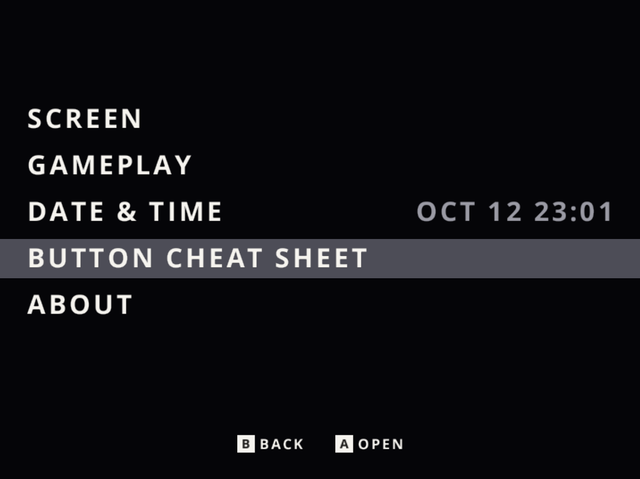
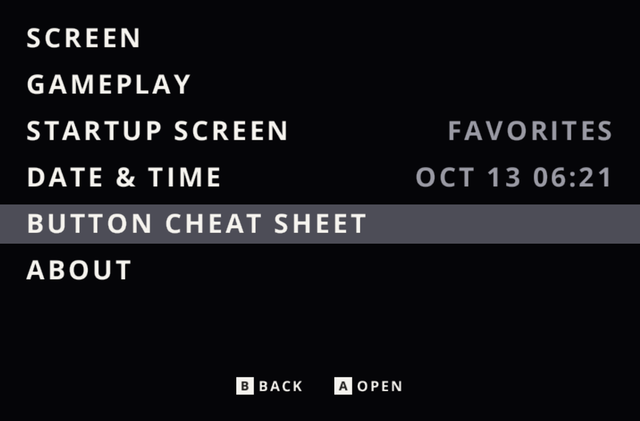
README and CHANGELOG for v1.6.0-mod.2
What's new gains the eight new features below the first three, the
credit line thanks the forks some of them came from, the quick install
gets an optional boot logo step, and the screenshots show the Favorites
and Recents shelves, Startup Screen and the scrolling Gameplay page.

diff --git a/README.md b/README.md
@@ -15,6 +15,11 @@
 An **unofficial fork** of [slot](https://github.com/BrandonKowalski/slot) by Brandon Kowalski, who deserves all the
 credit. Not affiliated with or endorsed by him: please report this fork's problems here. Same license, GPL-3.0-or-later.
 
+Some features are adapted from other slot forks: [slot.advance](https://github.com/suprsomething/slot.advance) by
+suprsomething (battery warnings, standby, favorites), [snowslots](https://github.com/chiyuki0325/snowslots) by
+chiyuki0325 (fast-forward pitch) and [jgraving/slot](https://github.com/jgraving/slot) by jgraving (favorites and
+recents). Thank you!
+
 [User guide](https://slot-cfw.fyi) · [Changelog](CHANGELOG.md)
 
 # What's new
@@ -24,6 +29,14 @@ credit. Not affiliated with or endorsed by him: please report this fork's proble
 | **Battery %** in game | Always on, bottom-right of the bezel (4:3 screens like the RG35XXSP). Green → red as it drains. |
 | **Button Cheat Sheet** | Settings: MENU → **Button Cheat Sheet** |
 | **Button Cheat Sheet** in game | Save state switcher: double-tap MENU → **START** |
+| **Favorites** | On the shelf, **Y** adds or removes a game; a heart marks it. **R1** past GBC opens the Favorites shelf. Your own sticker: put a PNG at `System/favorite.png`. |
+| **Recents** | **R1** to the Recents shelf: your last 10 games, newest first |
+| **Startup Screen** | Settings: MENU → **Startup Screen** (GBA, GB, GBC, Favorites or Recents) |
+| **Keep FF Pitch** | Settings: MENU → Gameplay → **Keep FF Pitch**, with Fast Forward Sound on |
+| **Low-battery warning** | Automatic, at 15% and 10% |
+| **Standby** | Automatic: with the lid shut, slot stops drawing to save battery |
+| **Scrolling settings** | Long settings pages scroll; ▲ ▼ show there is more |
+| **slot._modded boot logo** | In the release; with the quick option, see step 5 below |
 
 # Try this fork on your device
 
@@ -38,7 +51,10 @@ For a handheld that already runs slot OS. Your games, saves and states stay as t
 2. Turn the handheld off and put slot's SD card in your computer.
 3. In the card's `System` folder, rename the original `slot` file to `slot.orig`. That keeps it as a backup.
 4. Copy the downloaded `slot` into the card's `System` folder.
-5. Eject the card safely, put it back in the handheld and turn it on.
+5. Optional, for the slot._modded boot logo: download
+   [`bootlogo.bmp`](https://github.com/marghost/slot_modded/releases/latest/download/bootlogo.bmp) and copy it over
+   `System/bootlogo.bmp`. It shows from the second start.
+6. Eject the card safely, put it back in the handheld and turn it on.
 
 To go back to the original slot, delete `System/slot` and rename `System/slot.orig` back to `slot`.
 
@@ -62,8 +78,23 @@ short:
 # Screenshots
 
 <p align="center">
-<img src=".github/resources/screenshots/fork-settings-cheat-sheet.png" width="60%" alt="The settings menu with the new Button Cheat Sheet row between Date & Time and About"><br>
-<em>The settings menu, with the new Button Cheat Sheet entry.</em>
+<img src=".github/resources/screenshots/fork-favorite-page.png" width="60%" alt="The Favorites shelf: a pixel heart on the top-left corner of a GBA, a GB and a GBC cart, and FAVORITES on the slot"><br>
+<em>The Favorites shelf, with a heart on each favorite.</em>
+</p>
+
+<p align="center">
+<img src=".github/resources/screenshots/fork-recent-page.png" width="60%" alt="The Recents shelf: the last game played in the middle, with its heart, and RECENTS on the slot"><br>
+<em>The Recents shelf: your last games, newest first.</em>
+</p>
+
+<p align="center">
+<img src=".github/resources/screenshots/fork-settings-cheat-sheet.png" width="60%" alt="The settings menu with the new Startup Screen row set to Favorites, and the Button Cheat Sheet row selected"><br>
+<em>The settings menu, with Startup Screen and the Button Cheat Sheet.</em>
+</p>
+
+<p align="center">
+<img src=".github/resources/screenshots/fork-keep-ff-pitch.png" width="60%" alt="The Gameplay settings page: Keep FF Pitch selected under Fast Forward Sound, Run-Ahead, and a down arrow under the last visible row"><br>
+<em>The Gameplay page: Keep FF Pitch, and ▼ when more settings are below.</em>
 </p>
 
 <p align="center">

diff --git a/CHANGELOG.md b/CHANGELOG.md
@@ -1,5 +1,31 @@
 # Changelog
 
+## [v1.6.0-mod.2](https://github.com/marghost/slot_modded/releases/tag/v1.6.0-mod.2) (marghost fork)
+
+Changes made in this fork since v1.6.0-mod.1 (2026-10-13). Written by Claude Opus (AI), see the
+[Fork AI Disclosure](README.md#fork-ai-disclosure):
+
+- Favorites: Y on the shelf adds or removes the selected game, and a pixel heart on the cart marks it on every shelf. A
+  Favorites shelf after GBC (L1/R1) lists them A to Z, GBA, GB and GBC together; Y there removes a game. They are kept
+  in `Config/favourites.txt`. The heart is `System/favorite.png`: put your own PNG there, or remove it for the built-in
+  heart. (Adapted from [slot.advance](https://github.com/suprsomething/slot.advance) by suprsomething and
+  [jgraving/slot](https://github.com/jgraving/slot) by jgraving.)
+- Recents: a Recents shelf after Favorites holds the last 10 games started, newest first, and opens on the game just
+  played. Kept in `Config/recents.txt`. (Adapted from slot.advance and jgraving/slot.)
+- Startup Screen on the main settings page: the shelf slot opens on, GBA (default), GB, GBC, Favorites or Recents. An
+  empty choice opens the next shelf with games. A game left in the slot still resumes at boot, and ejecting it goes back
+  to the startup shelf when the game is on it.
+- Keep FF Pitch on the Gameplay page: with Fast Forward Sound on, fast-forward sound keeps its normal pitch instead of
+  going higher. (Adapted from [snowslots](https://github.com/chiyuki0325/snowslots) by chiyuki0325.)
+- A "Battery Low" banner at 15% and again at 10%, once per discharge; charging resets both. (Adapted from slot.advance.)
+- Standby: while the lid is shut, or after a tap of POWER, slot stops drawing until it wakes, to use less battery. The
+  3-minute power-off is unchanged. (Adapted from slot.advance.)
+- Settings pages with more than six rows scroll, and ▲ ▼ show when there are more rows above or below.
+- A new boot logo: "slot." with "_modded" under it.
+- The Button Cheat Sheet's carousel page lists Y (add / remove favorite), and L1/R1 now switch shelf.
+- Includes the original slot's latest changes, not in a slot release yet: a 1 frame Run-Ahead setting for GBA games on
+  mGBA, brightness steps on a curve so the lowest steps are dimmer, and steady frame rate while the sound is muted.
+
 ## [v1.6.0-mod.1](https://github.com/marghost/slot_modded/releases/tag/v1.6.0-mod.1) (marghost fork)
 
 Changes made in this fork, on top of slot 1.6.0 (2026-10-12). Written by Claude Opus (AI), see the
